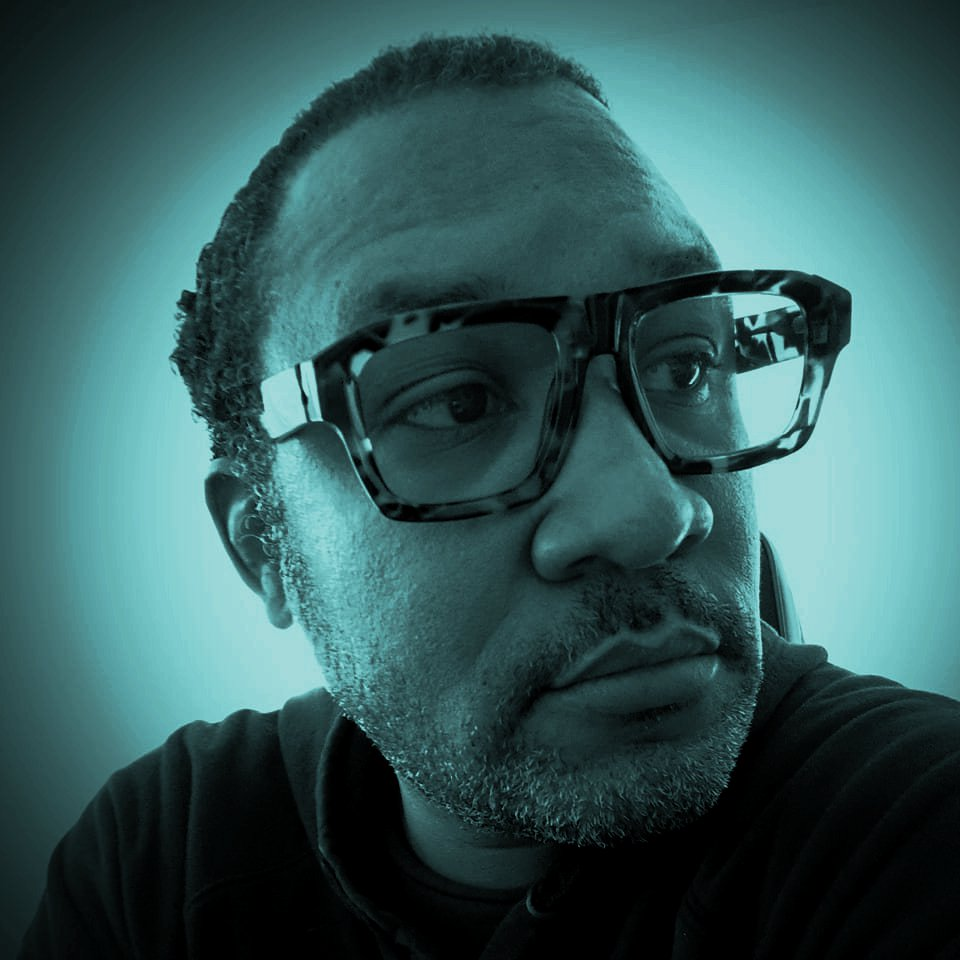
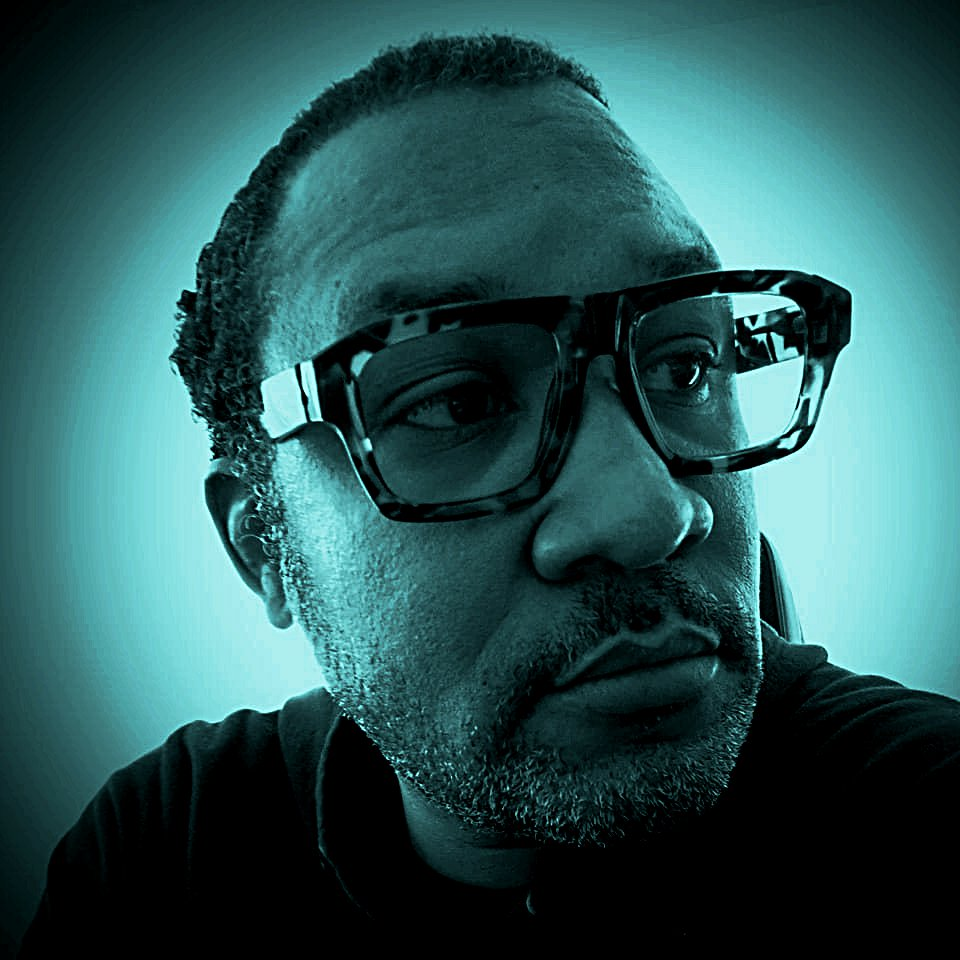
color scheme

diff --git a/main.css b/main.css
@@ -104,13 +104,14 @@ aside > p {
     padding-top: .5rem;
     padding-left: 1rem;
     padding-right: 1rem;
-    padding-bottom: 1.25rem;
+    padding-bottom: 1rem;
     margin-left: .5rem;
     margin-right: .5rem;
-    color: #999;
+    color: #111;
     font-style: italic;
     background-color: black;
     opacity: .9;
+    color: silver;
     
 }
 
@@ -401,7 +402,7 @@ span.move {
 	max-width: 16rem;
 	min-height: 12rem;
 
-	left: 3.1%;
+	left: 1.5%;
 
 	justify-content: center;
   animation: animate 3s ease-in-out infinite;
@@ -609,8 +610,8 @@ body {
 	letter-spacing: .003px;
 	line-height: 1;
 
-	background-size: 108%;
-	background-position: auto auto;
+	background-size: 100%;
+	background-position: 50% 50%;
 	background-attachment: fixed;
 	background-repeat: no-repeat;
 	background-color: black;
@@ -1649,13 +1650,13 @@ align-items: left
 	margin: 0 auto;
 	position: relative;
 	background-color: #000;
-	bottom: 0;
+	bottom: 0;fa 
 	width: 100vw;
 	height: auto;
 	padding-top: .5%;
 	padding-bottom: 1.25%;
 	display: block;
-	color: #999;
+	color: mediumturquoise;
 	text-align: center;
 	font-size: .7em;
 	line-height: .25;
@@ -1775,7 +1776,7 @@ ul.fa {
 
  .fa-twitter {  
   background: none;  
-  color: silver; 
+  color: mediumturquoise; 
   font-size: 2vw; 
 } 
 
@@ -1783,21 +1784,21 @@ ul.fa {
 
 
 .fa-linkedin {    
-  color: silver;
+  color: darkturquoise;
   font-size: 2vw;
 }
 
 
 
 .fa-medium {    
-  color: silver; 
+  color: mediumturquoise; 
   font-size: 1.8vw;
 }
 
 
 
 .fa-tumblr {    
-  color: silver;
+  color: mediumturquoise;
   font-size: 2vw;
 }
 

diff --git a/index.html b/index.html
@@ -187,7 +187,7 @@
 		<aside>
 			<center>
 <br>
-				<h1><strong>Lit. Bundle >></strong></h1>
+				<h1><strong>>> Lit. Bundle</strong></h1>
 <br>
 				<h2>EDITORIAL SALE!!!</h2>
 				<strong>
